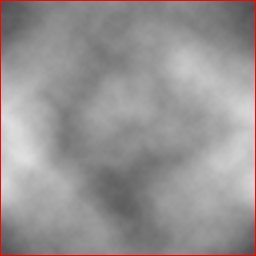
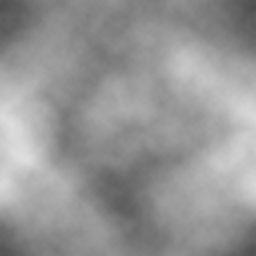
Fixed an unwanted scaling issue in SetSprite

Changed region(s): [[0.0, 0.0, 1.0, 1.0]]

diff --git a/Farm Sim/src/interfaces/Render.java b/Farm Sim/src/interfaces/Render.java
@@ -199,6 +199,56 @@ public class Render
 		Mat.SetOrientation(Orientation.NORMAL);
 
 	}
+	
+	public static void DrawImage(interfaces.file.types.MaterialFile Mat, specifier.Vector2D Pos, int Width, int Height)
+	{
+		Mat.Texture().bind();
+
+		GL11.glTexParameteri(GL11.GL_TEXTURE_2D, GL11.GL_TEXTURE_MAG_FILTER, GL11.GL_NEAREST);
+		double[] orthoPos = Camera.getInstance().translatedOrtho();
+
+		GL11.glMatrixMode(GL11.GL_PROJECTION);
+		GL11.glLoadIdentity();
+		GL11.glOrtho(orthoPos[0], orthoPos[1], orthoPos[2], orthoPos[3], 1, -1);
+		GL11.glMatrixMode(GL11.GL_MODELVIEW);
+
+		GL11.glBegin(GL11.GL_QUADS);
+
+		switch (Mat.Facing())
+		{
+			case NORMAL:
+				break;
+			case UP:
+				GL11.glRotatef(270, 0.0f, 0.0f, 1.0f);
+				break;
+			case LEFT:
+				GL11.glRotatef(180, 0.0f, 0.0f, 1.0f);
+				break;
+			case RIGHT:
+				GL11.glRotatef(0, 0.0f, 0.0f, 1.0f);
+				break;
+			case DOWN:
+				GL11.glRotatef(90, 0.0f, 0.0f, 1.0f);
+				break;
+		}
+
+		// TOP LEFT
+		GL11.glTexCoord2f(0, 0);
+		GL11.glVertex2f(Pos.x - (Width / 2), Pos.y - (Height / 2));
+		// TOP RIGHT
+		GL11.glTexCoord2f((float)Width/ (float)Mat.Width(), 0);
+		GL11.glVertex2f(Pos.x + Width / 2, Pos.y - (Height / 2));
+		// BOTTOM RIGHT
+		GL11.glTexCoord2f((float)Width / (float)Mat.Width(), (float)Height / (float)Mat.Height());
+		GL11.glVertex2f(Pos.x + Width / 2, (Pos.y) + Height / 2);
+		// BOTTOM LEFT
+		GL11.glTexCoord2f(0, (float)Height / (float)Mat.Height());
+		GL11.glVertex2f(Pos.x - Width / 2, (Pos.y) + Height / 2);
+
+		GL11.glEnd();
+
+		Mat.SetOrientation(Orientation.NORMAL);
+	}
 
 	public static void DrawLine(int x1, int y1, int x2, int y2, Color Color)
 	{

diff --git a/Farm Sim/src/renderable/Renderable.java b/Farm Sim/src/renderable/Renderable.java
@@ -11,8 +11,8 @@ public abstract class Renderable
 	protected int XPos;
 	protected int YPos;
 	private int ZIndex;
-	private int Width;
-	private int Height;
+	protected int Width;
+	protected int Height;
 	public boolean Visible;
 	protected MaterialFile CurrentSprite;
 	protected RenderType R;
@@ -104,7 +104,7 @@ public abstract class Renderable
 
 	public void SetSprite(MaterialFile S) // for object with no animation
 	{
-		S.Resize(this.Width, this.Height); // so the texture scales to the size of the object
+		//S.Resize(this.Width, this.Height); // so the texture scales to the size of the object
 		CurrentSprite = S;
 	}
 

diff --git a/Farm Sim/src/ui/Menu.java b/Farm Sim/src/ui/Menu.java
@@ -18,9 +18,8 @@ public class Menu extends UIElement
 	{
 		super("MENU", "MENU ELEMENT", "TEST", Width, Height, new specifier.Vector2D(Width / 2, Height / 2), null);
 		Members = new ArrayList<UIElement>();
-		MaterialFile Mat = (MaterialFile)FileManager.getInstance().Retrieve("resources\\ui\\menus\\menu_default.png");
 		Background = new UIElement("Menu Element", "Parent Menu", "", Width, Width, new specifier.Vector2D(Width / 2, Height / 2), this);
-		Background.SetSprite(Mat);
+		Background.SetSprite((MaterialFile)FileManager.getInstance().Retrieve("resources\\ui\\menus\\menu_default.png"));
 		selectedElem = this;
 	}
 	

diff --git a/Farm Sim/src/ui/UIElement.java b/Farm Sim/src/ui/UIElement.java
@@ -39,7 +39,7 @@ public class UIElement extends Renderable
 	
 	public void Draw()
 	{
-		Render.DrawImage(this.CurrentSprite, this.translatedRelativePos());
+		Render.DrawImage(this.CurrentSprite, this.translatedRelativePos(), Width, Height);
 		Label.Draw();
 	}
 	
